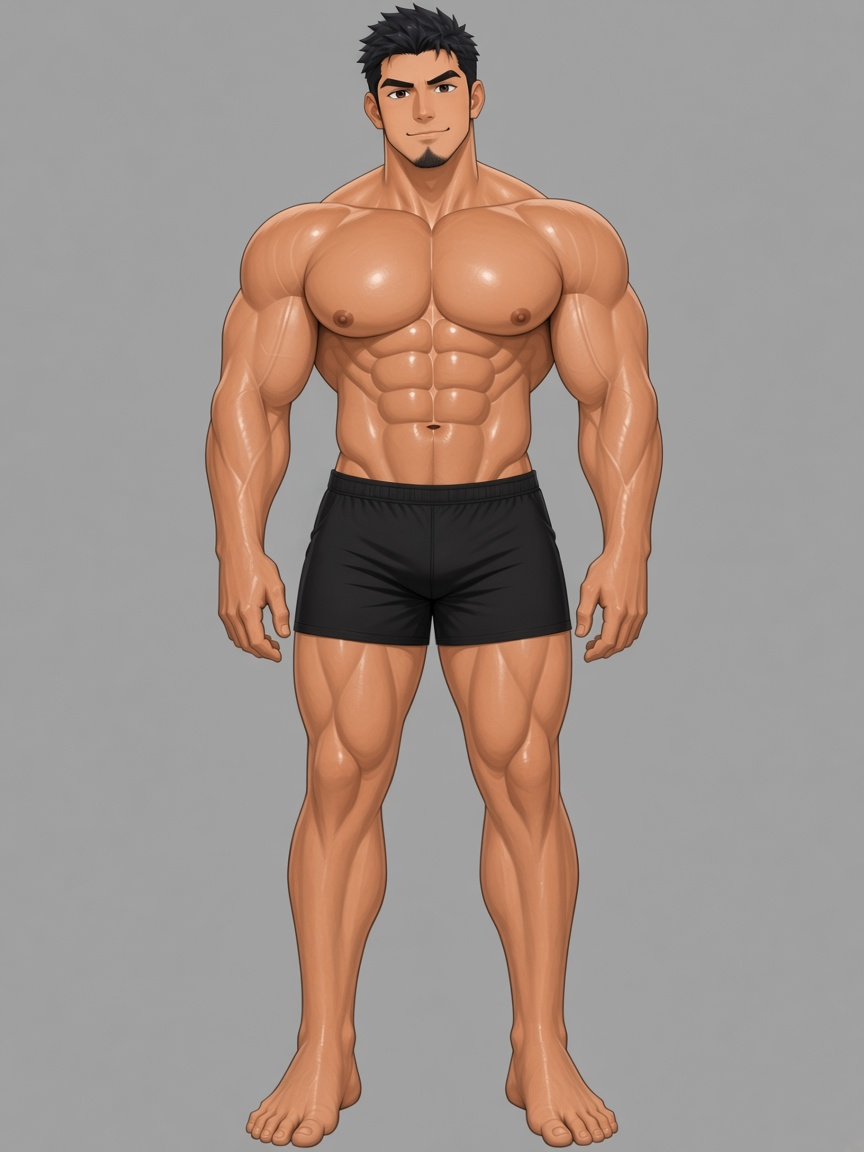
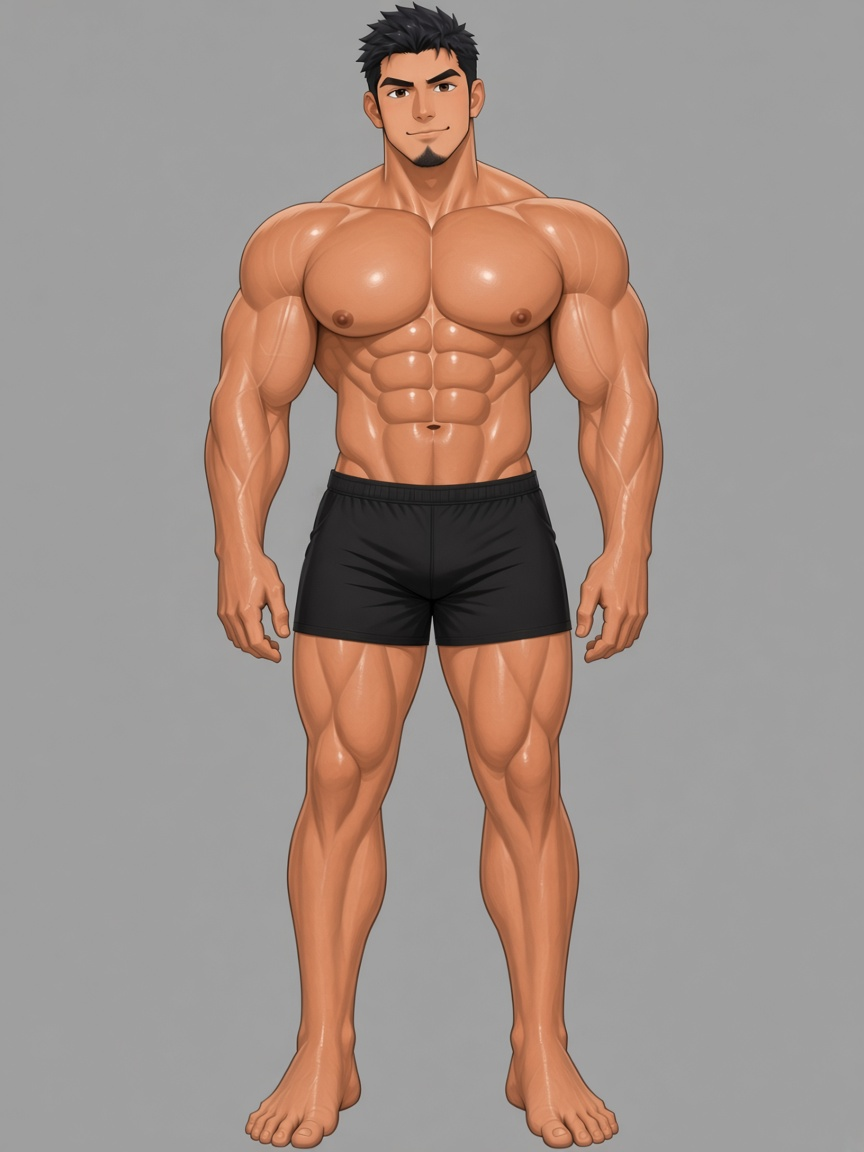
fix: 上胸垫高，下胸收紧
胸位上移，上沿更满，下沿不再下坠。脸和身高保持不变。

diff --git a/漫画分镜/多角度设定/设定说明.md b/漫画分镜/多角度设定/设定说明.md
@@ -5,7 +5,7 @@
 ## 识别点
 
 - 脸：短碎发。眼往侧看，深棕色。下颌收尖，下巴有一小撮山羊胡，颊侧淡胡茬。
-- 体：高，腿长。胸又圆又厚，侧面明显向前鼓出，肩宽，腹肌清楚。
+- 体：高，腿长。上胸饱满，胸位偏高，下胸收紧不坠，侧面从锁骨下方向前鼓，肩宽，腹肌清楚。
 - 肤色：暖小麦色。
 
 ## 图
